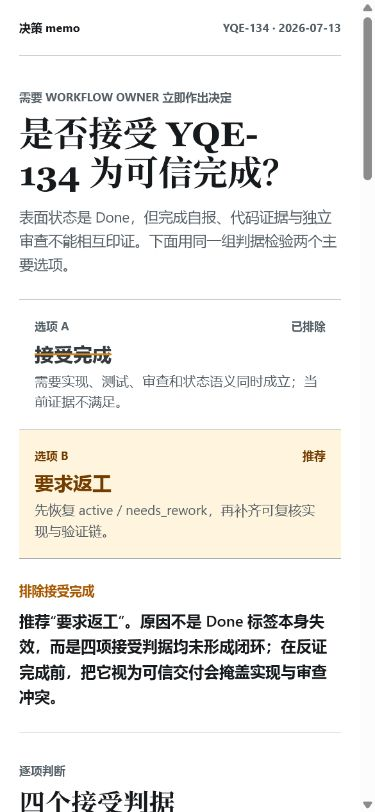
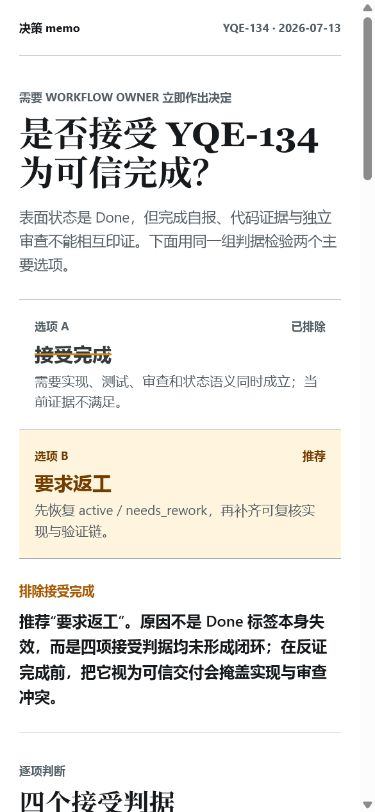
fix(report): 保持决策 memo 标识完整换行
摘要:
- 将决策问题中的 YQE-134 作为不可拆分的行内标识。
- 更新移动端截图以反映修复后的排版。

理由:
- 避免关键 issue 标识在窄屏中被连字符拆行。
- 保持决策问题的可见文本、事实和其他布局不变。

验证:
- 第一轮技术校验通过：1 个候选。
- 敏感扫描 0 匹配。
- git diff --check 与 git diff --cached --check 通过。

Changed region(s): [[0.0587, 0.1539, 0.8507, 0.2463]]

diff --git a/.symphony/report-design-spike/yqe-134/decision-memo/index.html b/.symphony/report-design-spike/yqe-134/decision-memo/index.html
@@ -144,6 +144,10 @@
       letter-spacing: 0;
     }
 
+    .issue-id {
+      white-space: nowrap;
+    }
+
     .hero__lead {
       max-width: 700px;
       margin: 0 auto;
@@ -592,7 +596,7 @@
     <main>
       <section class="hero" aria-labelledby="decision-question">
         <p class="eyebrow">需要 workflow owner 立即作出决定</p>
-        <h1 id="decision-question">是否接受 YQE-134 为可信完成？</h1>
+        <h1 id="decision-question">是否接受 <span class="issue-id">YQE-134</span> 为可信完成？</h1>
         <p class="hero__lead">表面状态是 Done，但完成自报、代码证据与独立审查不能相互印证。下面用同一组判据检验两个主要选项。</p>
       </section>
 
